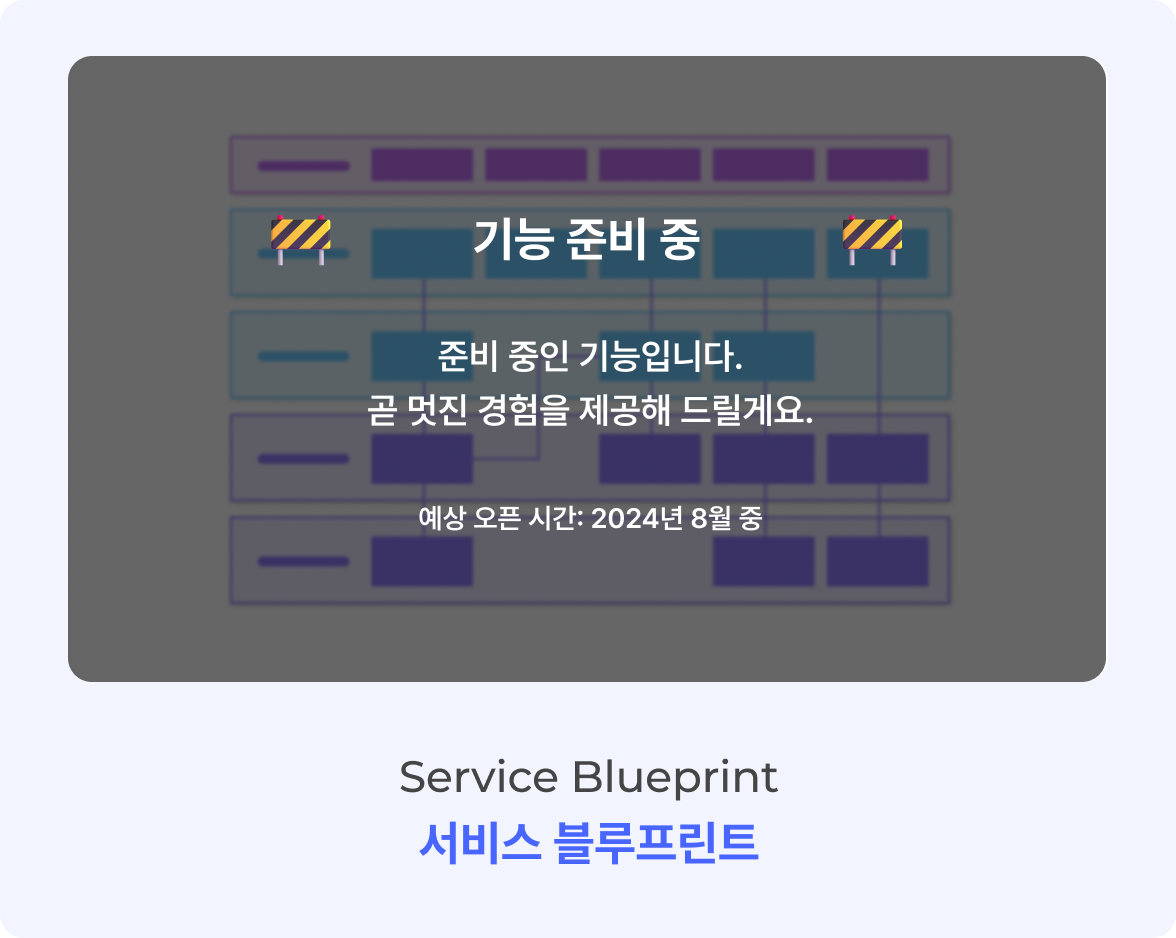
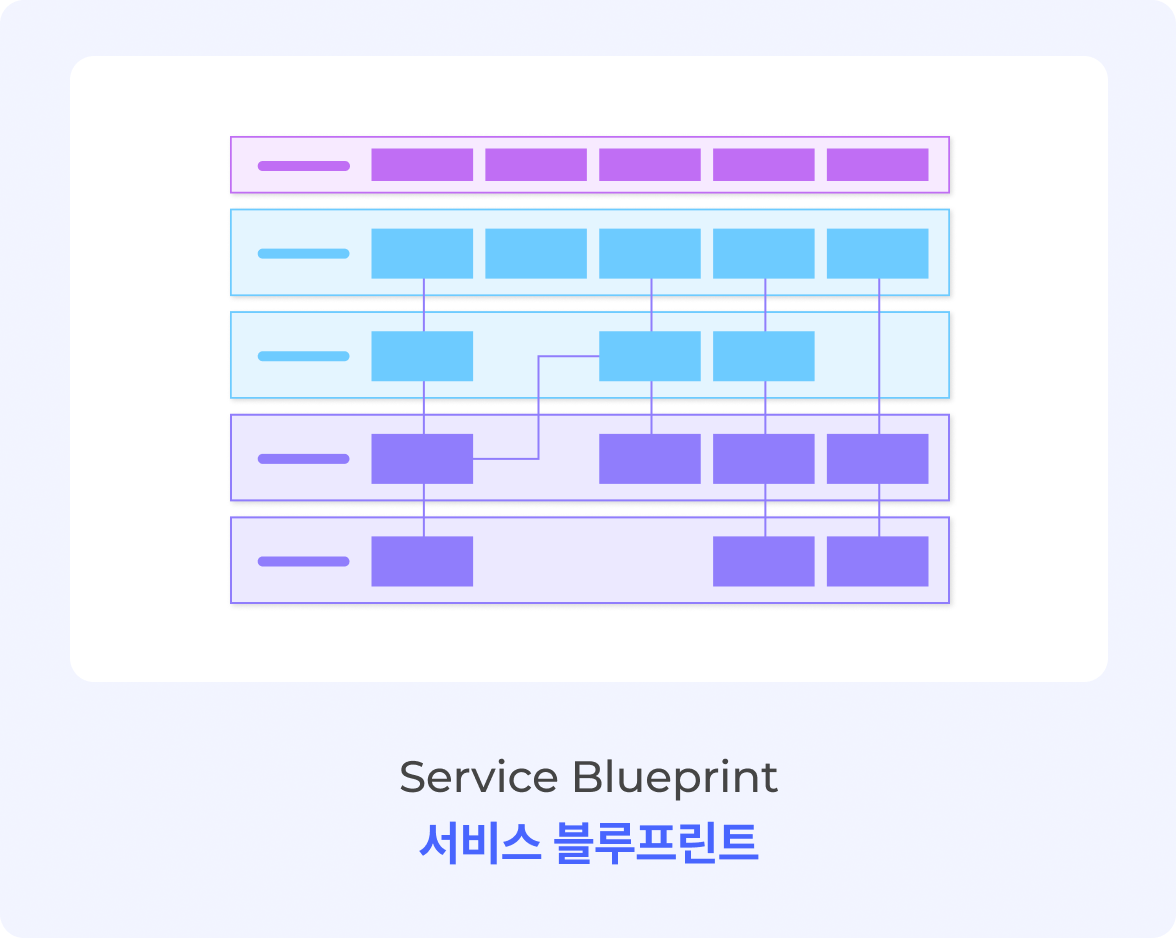
feat: 2차 결과 화면 재생성 버튼, 서비스 이미지 교체

diff --git a/src/pages/SecondResult/index.tsx b/src/pages/SecondResult/index.tsx
@@ -13,6 +13,7 @@ import {
 import {
   hyperClova,
   recommendServiceTool,
+  refreshIcon,
   testResult,
   typeInfo,
 } from '@/assets';
@@ -93,6 +94,11 @@ export const TestResultImg = styled.img`
   width: 164px;
   height: 46px;
 `;
+export const TestResultTitleWrapper = styled.div`
+  width: 100%;
+  display: flex;
+  justify-content: space-between;
+`;
 export const TestResultTitle = styled.p`
   margin-top: 10px;
   font-family: Pretendard-SemiBold;
@@ -102,8 +108,9 @@ export const TestResultTitle = styled.p`
   letter-spacing: -0.012em;
   text-align: left;
   color: ${({ theme }) => theme.color.gray[0]};
-  align-self: flex-start;
+  align-self: flex-end;
 `;
+
 export const TestResultContentContainer = styled.div`
   width: 100%;
   padding: 32.5px;
@@ -154,6 +161,40 @@ export const TypeInfoContentImg = styled.img`
   flex-grow: 1;
   height: 384px;
   object-fit: contain;
+`;
+
+export const RefreshButton = styled.div`
+  display: flex;
+  gap: 10px;
+  width: 141px;
+  height: 56px;
+  display: flex;
+  justify-content: center;
+  align-items: center;
+  background-color: ${({ theme }) => theme.color.white[0]};
+  border-radius: 9px;
+  cursor: pointer;
+  border: 1px solid ${({ theme }) => theme.color.primary[1]};
+
+  &:hover {
+    background-color: ${({ theme }) => theme.color.bg[1]};
+  }
+
+  & img {
+    width: 24px;
+    height: 24px;
+  }
+
+  & span {
+    font-family: Pretendard-SemiBold;
+    font-size: 18px;
+    font-weight: 600;
+    line-height: 18px;
+    letter-spacing: -0.002em;
+    text-align: left;
+
+    color: ${({ theme }) => theme.color.primary[0]};
+  }
 `;
 
 export const ServiceToolSection = styled(TestResultSection)`
@@ -284,9 +325,14 @@ const SecondResult = () => {
       return navigate(ROUTES_PATH.busineesModelCanvas);
     if (tool === '/static/media/persona.e02c39fba4c7c55734ff.png')
       return navigate(ROUTES_PATH.persona);
-
     if (tool === '/static/media/customer_journey_map.e1efe6a2c919ef83d0d9.png')
       return navigate(ROUTES_PATH.customerJourneyMap);
+    if (tool === '/static/media/benchmarking.c493336ab4b3f7fad3b4.png')
+      return navigate(ROUTES_PATH.benchmarking);
+    if (tool === '/static/media/service_blueprint.ee75cd205568887a725a.png')
+      return navigate(ROUTES_PATH.bluePrint);
+    if (tool === '/static/media/system_map.1cb0a035920306ea42eb.png')
+      return navigate(ROUTES_PATH.systemMap);
   };
 
   if (isLoading) {
@@ -296,6 +342,10 @@ const SecondResult = () => {
   if (isError) {
     return <div>Error...</div>;
   }
+
+  const handleRetryButtonClick = () => {
+    navigate('/type/test');
+  };
 
   return (
     <Container>
@@ -313,7 +363,14 @@ const SecondResult = () => {
       </Header>
       <TestResultSection>
         <TestResultImg src={testResult} />
-        <TestResultTitle>AI가 서비스와 취약점을 분석했어요</TestResultTitle>
+        <TestResultTitleWrapper>
+          <TestResultTitle>AI가 서비스와 취약점을 분석했어요</TestResultTitle>
+          <RefreshButton onClick={() => refetch()}>
+            <img src={refreshIcon} />
+            <span>재생성</span>
+          </RefreshButton>
+        </TestResultTitleWrapper>
+
         <TestResultContentContainer>
           <TestResultContentWrapper>{result}</TestResultContentWrapper>
         </TestResultContentContainer>
@@ -352,14 +409,14 @@ const SecondResult = () => {
             ))}
           </ServiceToolContentImgWrapper>
         </ServiceToolSection>
-        {/* <BuutonWrapper>
-          <RetryButton type="button">
+        <BuutonWrapper>
+          <RetryButton onClick={handleRetryButtonClick} type="button">
             <RetryButtonText>다시 테스트 하기</RetryButtonText>
           </RetryButton>
           <DownloadButton type="button">
             <DownloadButtonText>점검 결과 다운로드</DownloadButtonText>
           </DownloadButton>
-        </BuutonWrapper> */}
+        </BuutonWrapper>
       </Footer>
     </Container>
   );

diff --git a/src/pages/Main/index.tsx b/src/pages/Main/index.tsx
@@ -179,7 +179,7 @@ export const ContentSectionWrapper = styled.div`
   gap: 24px;
   flex-wrap: wrap;
 `;
-export const ContentImg = styled.img<{ src: string; hoverSrc: string }>`
+export const ContentImg = styled.img<{ src: string; hoversrc: string }>`
   src: ${({ src }) => src};
   width: 282px;
   height: 282px;
@@ -187,7 +187,7 @@ export const ContentImg = styled.img<{ src: string; hoverSrc: string }>`
   cursor: pointer;
 
   &:hover {
-    content: url(${(props) => props.hoverSrc});
+    content: url(${(props) => props.hoversrc});
     transition: 0.25s;
     box-shadow: 0 0.5em 0.5em -0.4em ${({ theme }) => theme.color.gray[3]};
     transform: translateY(-0.25em);
@@ -256,42 +256,42 @@ const Main = () => {
   const mainContentImgs = [
     {
       src: mainContentSwot,
-      hoverSrc: mainContentSwotHover,
+      hoversrc: mainContentSwotHover,
       onClick: () => navigate('/swot'),
     },
     {
       src: mainContentPsn,
-      hoverSrc: mainContentPsnHover,
+      hoversrc: mainContentPsnHover,
       onClick: () => navigate('/tools/psn'),
     },
     {
       src: mainContentCjm,
-      hoverSrc: mainContentCjmHover,
+      hoversrc: mainContentCjmHover,
       onClick: () => navigate('/tools/cjm'),
     },
     {
       src: mainContentBmc,
-      hoverSrc: mainContentBmcHover,
+      hoversrc: mainContentBmcHover,
       onClick: () => navigate('/tools/bmc'),
     },
     {
       src: mainContentBlp,
-      hoverSrc: mainContentBlpHover,
+      hoversrc: mainContentBlpHover,
       onClick: () => navigate('/tools/blp'),
     },
     {
       src: mainContentStm,
-      hoverSrc: mainContentStmHover,
+      hoversrc: mainContentStmHover,
       onClick: () => navigate('/tools/stm'),
     },
     {
       src: mainContentBcm,
-      hoverSrc: mainContentBcmHover,
+      hoversrc: mainContentBcmHover,
       onClick: () => navigate('/tools/bcm'),
     },
     {
       src: mainContentTest,
-      hoverSrc: mainContentTestHover,
+      hoversrc: mainContentTestHover,
       onClick: () => navigate('/type'),
     },
   ];
@@ -342,7 +342,7 @@ const Main = () => {
               <ContentImg
                 key={index}
                 src={item.src}
-                hoverSrc={item.hoverSrc}
+                hoversrc={item.hoversrc}
                 alt="mainContentImg"
                 onClick={item.onClick}
               />

diff --git a/src/utility/constants.ts b/src/utility/constants.ts
@@ -120,14 +120,14 @@ export const WEAKNESS_TYPE_INFO: {
     contentInfo: objectiveInformationInfo,
     headerBackground: objectiveInformationHeader,
     footerBackground: weakneesTypeFooter1,
-    serviceTool: [businessModelCanvas, systemMap],
+    serviceTool: [benchmarking, systemMap],
   },
   TECHNOLOGICALCOMPETITIVENESS: {
     title: '기술 경쟁력 부족',
     contentInfo: technologicalCompetitivenessInfo,
     headerBackground: technologicalCompetitivenessHeader,
     footerBackground: weakneesTypeFooter2,
-    serviceTool: [businessModelCanvas, serviceBlueprint],
+    serviceTool: [benchmarking, serviceBlueprint],
   },
   MANAGEMENT: {
     title: '경영 관리 부족',

diff --git a/src/hooks/useSystemMap.ts b/src/hooks/useSystemMap.ts
@@ -12,7 +12,10 @@ interface SWOTAnalysisResponse {
 }
 
 export const useSystemMap = (serviceDescription: string) => {
-  const { data, isLoading, isError, refetch } = useQuery<SystemMapItem, Error>(
+  const { data, isLoading, isError, refetch, isRefetching } = useQuery<
+    SystemMapItem,
+    Error
+  >(
     [queryKeys.SYSTEM_MAP, serviceDescription],
     () =>
       fetchSystemMap(serviceDescription).then((data: SWOTAnalysisResponse) => {
@@ -32,5 +35,6 @@ export const useSystemMap = (serviceDescription: string) => {
     isLoading,
     isError,
     refetch,
+    isRefetching,
   };
 };

diff --git a/src/hooks/useBusineesModelCanvas.ts b/src/hooks/useBusineesModelCanvas.ts
@@ -12,7 +12,10 @@ interface SWOTAnalysisResponse {
 }
 
 export const useBusinessModelCanvas = (serviceDescription: string) => {
-  const { data, isLoading, isError, refetch } = useQuery<BMCanvas, Error>(
+  const { data, isLoading, isError, refetch, isRefetching } = useQuery<
+    BMCanvas,
+    Error
+  >(
     [queryKeys.BUSINESS_MODEL_CANVAS, serviceDescription],
     () =>
       fetchBusinessModelCanvas(serviceDescription).then(
@@ -34,5 +37,6 @@ export const useBusinessModelCanvas = (serviceDescription: string) => {
     isLoading,
     isError,
     refetch,
+    isRefetching,
   };
 };

diff --git a/src/pages/ServiceTools/BusineesModelCanvas/index.tsx b/src/pages/ServiceTools/BusineesModelCanvas/index.tsx
@@ -161,7 +161,7 @@ const BusineesModelCanvas = () => {
   const serviceDescription = JSON.parse(
     sessionStorage.getItem(SESSION_KEYS.serviceDescription) || '',
   );
-  const { data, isError, isLoading, refetch } =
+  const { data, isError, isLoading, refetch, isRefetching } =
     useBusinessModelCanvas(serviceDescription);
   const {
     problems = [''],
@@ -178,7 +178,7 @@ const BusineesModelCanvas = () => {
     competitiveAdvantage = [''],
   } = data || {};
 
-  if (isLoading) {
+  if (isLoading || isRefetching) {
     return <Loading refetch={refetch} />;
   }
 

diff --git a/src/hooks/useCustomerJourneyMap.ts b/src/hooks/useCustomerJourneyMap.ts
@@ -15,7 +15,7 @@ interface SWOTAnalysisResponse {
 }
 
 export const useCustomerJourneyMap = (serviceDescription: string) => {
-  const { data, isLoading, isError, refetch } = useQuery<
+  const { data, isLoading, isError, refetch, isRefetching } = useQuery<
     CustomerJourneyMapItem[],
     Error
   >(
@@ -42,5 +42,6 @@ export const useCustomerJourneyMap = (serviceDescription: string) => {
     isLoading,
     isError,
     refetch,
+    isRefetching,
   };
 };

diff --git a/src/hooks/useBlueprint.ts b/src/hooks/useBlueprint.ts
@@ -12,7 +12,7 @@ interface SWOTAnalysisResponse {
 }
 
 export const useBlueprint = (serviceDescription: string) => {
-  const { data, isLoading, isError, refetch } = useQuery<
+  const { data, isLoading, isError, refetch, isRefetching } = useQuery<
     BlueprintItem[],
     Error
   >(
@@ -35,5 +35,6 @@ export const useBlueprint = (serviceDescription: string) => {
     isLoading,
     isError,
     refetch,
+    isRefetching,
   };
 };

diff --git a/src/pages/ServiceTools/CustomerJouneyMap/index.tsx b/src/pages/ServiceTools/CustomerJouneyMap/index.tsx
@@ -147,10 +147,10 @@ const CustomerJouneyMap = () => {
   const serviceDescription = JSON.parse(
     sessionStorage.getItem(SESSION_KEYS.serviceDescription) || '',
   );
-  const { data, isError, isLoading, refetch } =
+  const { data, isError, isLoading, refetch, isRefetching } =
     useCustomerJourneyMap(serviceDescription);
 
-  if (isLoading) {
+  if (isLoading || isRefetching) {
     return <Loading refetch={refetch} />;
   }
 

diff --git a/src/pages/ServiceTools/Blueprint/index.tsx b/src/pages/ServiceTools/Blueprint/index.tsx
@@ -161,10 +161,10 @@ const Blueprint = () => {
   const serviceDescription = JSON.parse(
     sessionStorage.getItem(SESSION_KEYS.serviceDescription) || '',
   );
-  const { data, isError, isLoading, refetch } =
+  const { data, isError, isLoading, refetch, isRefetching } =
     useBlueprint(serviceDescription);
 
-  if (isLoading) {
+  if (isLoading || isRefetching) {
     return <Loading refetch={refetch} />;
   }
 

diff --git a/src/pages/ServiceTools/SystemMap/index.tsx b/src/pages/ServiceTools/SystemMap/index.tsx
@@ -107,10 +107,10 @@ const SystemMap = () => {
   const serviceDescription = JSON.parse(
     sessionStorage.getItem(SESSION_KEYS.serviceDescription) || '',
   );
-  const { data, isError, isLoading, refetch } =
+  const { data, isError, isLoading, refetch, isRefetching } =
     useSystemMap(serviceDescription);
 
-  if (isLoading) {
+  if (isLoading || isRefetching) {
     return <Loading refetch={refetch} />;
   }
 

diff --git a/src/clovaAI/api.ts b/src/clovaAI/api.ts
@@ -10,6 +10,7 @@ export const fetchSWOTAnalysis = async (
   level: number,
 ) => {
   try {
+    console.log('run');
     const response = await axios.get(
       API_URL +
         `/api/swot?serviceDescription=${serviceDescription}&level=${level}`,
